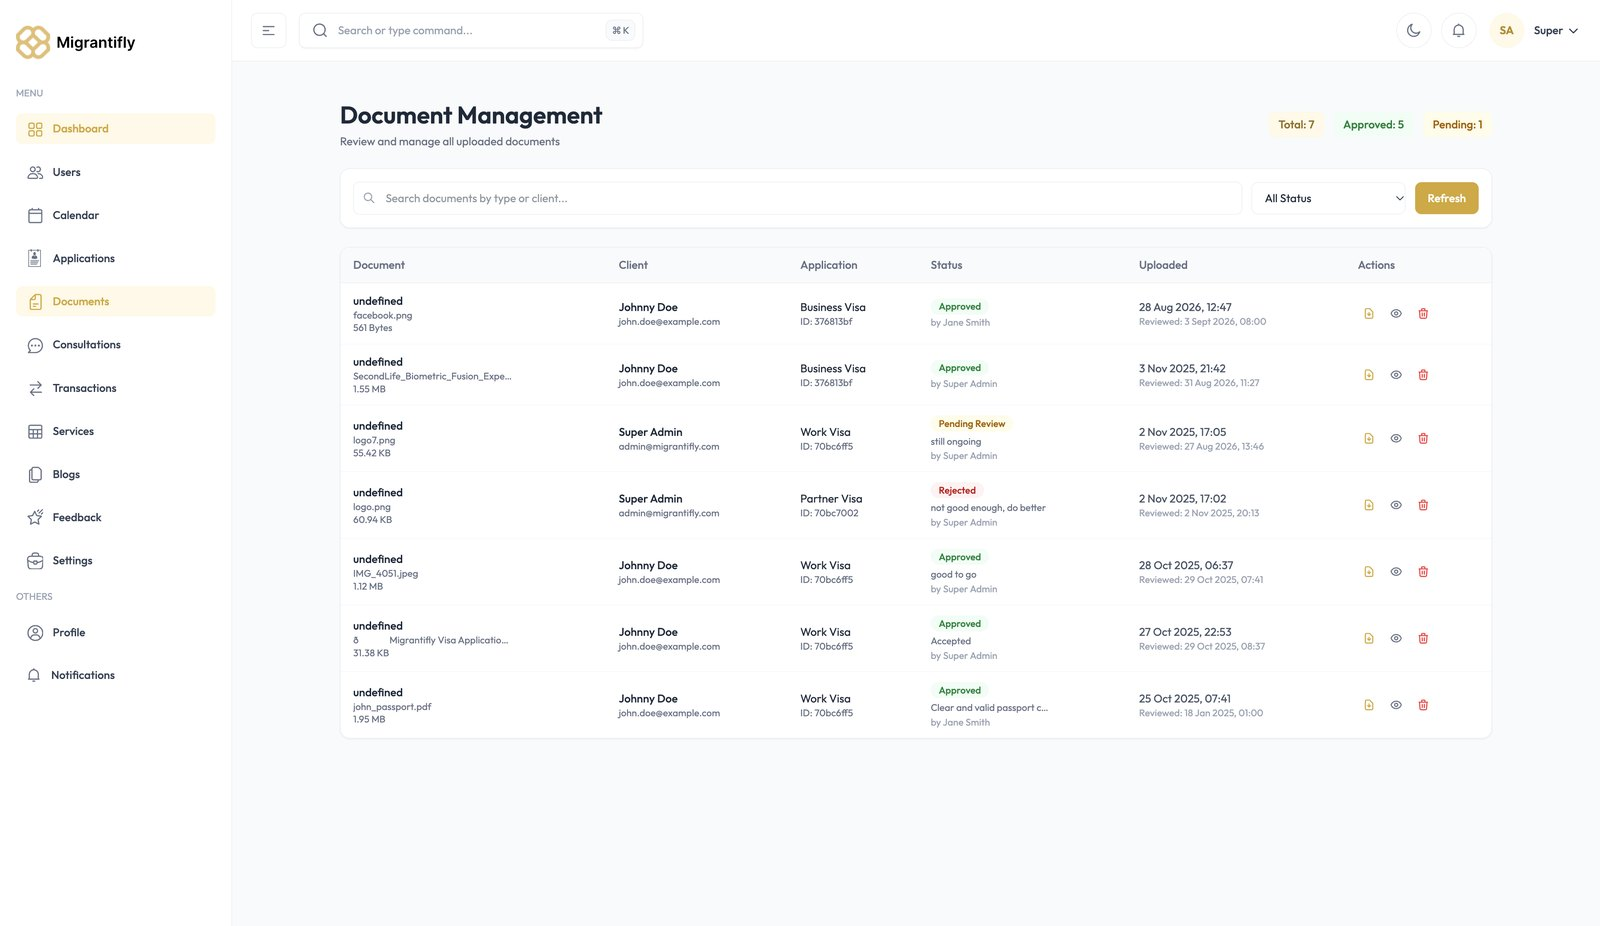
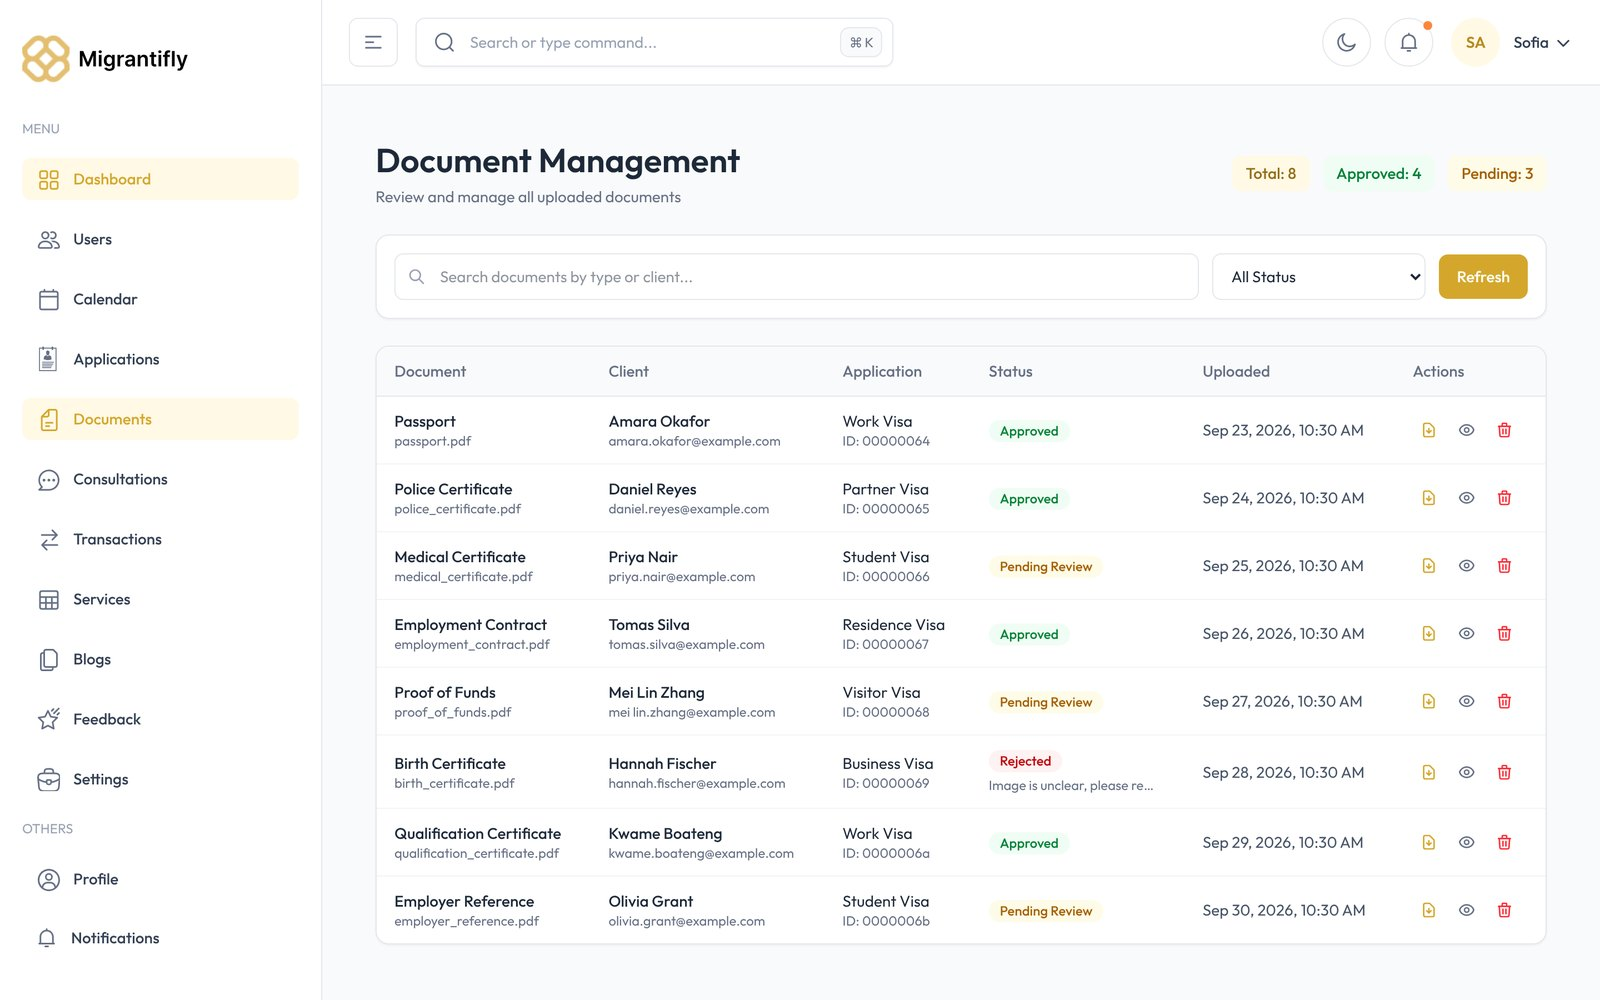
Replace Migrantifly screenshots with new 14-image set
Claude-Session: https://claude.ai/code/session_01ChXZbyaTsfoQ9RDEVaYjwT

diff --git a/src/lib/projects.js b/src/lib/projects.js
@@ -299,15 +299,21 @@ export const projects = [
     category: "Full-stack",
     image: "/images/projects/migrantifly.jpg",
     gallery: [
-      "/images/projects/migrantifly-7.jpg",
       "/images/projects/migrantifly-1.jpg",
       "/images/projects/migrantifly-2.jpg",
       "/images/projects/migrantifly-3.jpg",
       "/images/projects/migrantifly-4.jpg",
       "/images/projects/migrantifly-5.jpg",
       "/images/projects/migrantifly-6.jpg",
+      "/images/projects/migrantifly-7.jpg",
+      "/images/projects/migrantifly-8.jpg",
+      "/images/projects/migrantifly-9.jpg",
+      "/images/projects/migrantifly-10.jpg",
+      "/images/projects/migrantifly-11.jpg",
+      "/images/projects/migrantifly-12.jpg",
+      "/images/projects/migrantifly-13.jpg",
+      "/images/projects/migrantifly-14.jpg",
     ],
-    galleryRatio: "aspect-[1600/926]",
     summary:
       "A client portal and marketing site for a New Zealand immigration advisory firm, covering consultations, visa applications, documents, payments and messaging.",
     overview: [
